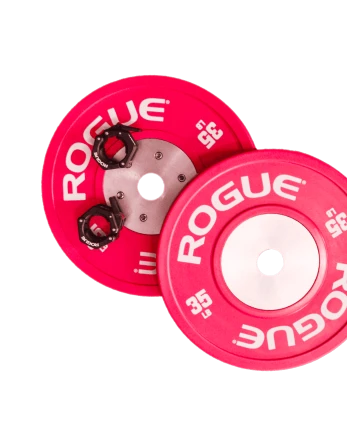
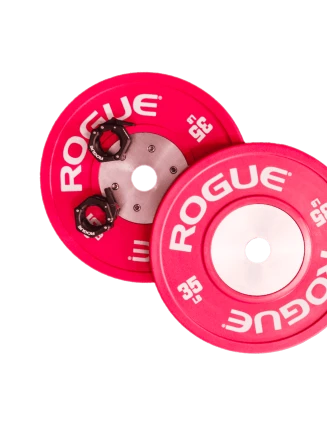
disc tablet fix

diff --git a/source/sass/blocks/subscription.scss b/source/sass/blocks/subscription.scss
@@ -466,7 +466,20 @@
   bottom: -149px;
   z-index: -1;
 
+  @include vp-1365 {
+    bottom: -147px;
+  }
+
   @include vp-767 {
     display: none;
+  }
+}
+
+
+.subscription__image img{
+  @include vp-1365 {
+    right: -45px;
+    width: 327px;
+    height: 422px;
   }
 }
